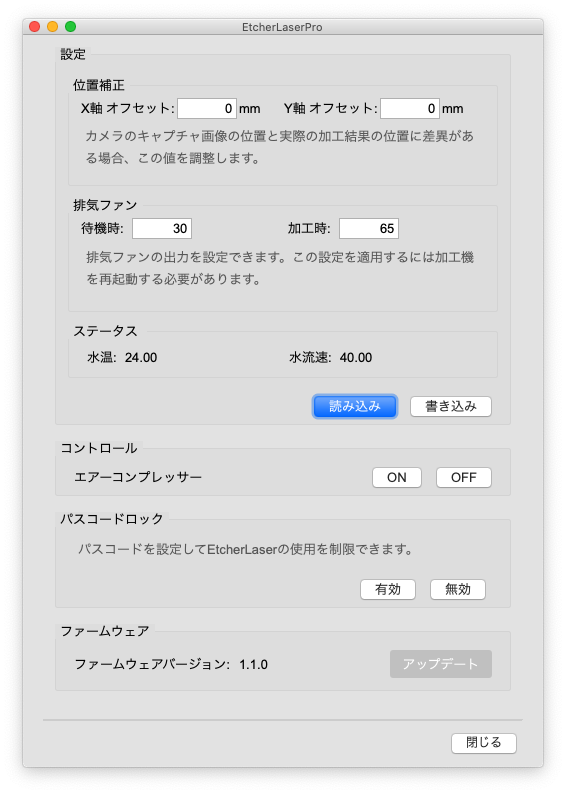
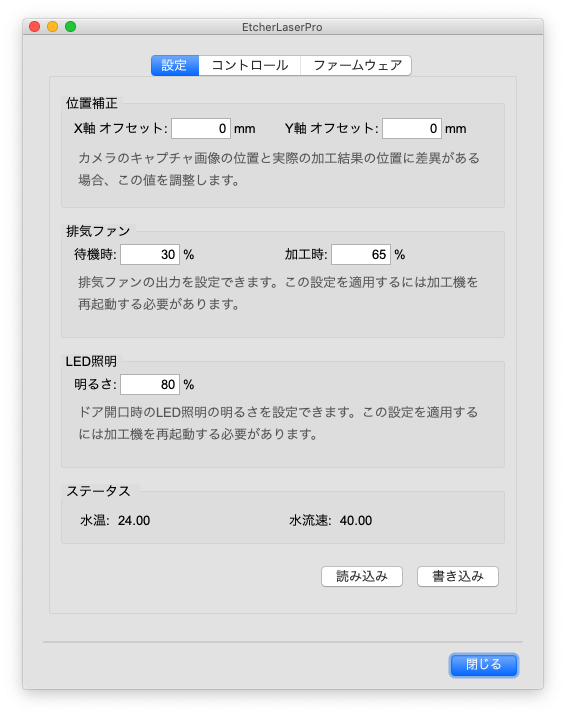
Update for version 1.3.3

diff --git a/manual/etcherlaserpro.md b/manual/etcherlaserpro.md
@@ -1,7 +1,7 @@
 ここでは、EtcherLaserPro用の機能について説明します。
 
 ```
-EthcerLaserProをお使いの方は、ユーザ設定の「モデル名」を"EtcherLaserPro"に設定していることを確認して下さい。  
+EthcerLaserProをお使いの方は、ユーザ設定の「モデル名」を"EtcherLaserPro"に設定していることを確認して下さい。<br/>
 また、ソフトウェアとEtcherLaserProが接続されていない場合は一部機能が無効になります。
 ```
 
@@ -16,12 +16,18 @@ EthcerLaserProをお使いの方は、ユーザ設定の「モデル名」を"Et
 
 
 ### 位置補正
-カメラのキャプチャ画像の位置と実際の加工結果の位置に差異がある場合、この値を調整します。  
+カメラのキャプチャ画像の位置と実際の加工結果の位置に差異がある場合、この値を調整します。
 
 ### 排気ファン
-排気ファンの出力を設定できます。この設定を適用するには加工機を再起動する必要があります。  
+排気ファンの出力を設定できます。この設定を適用するには加工機を再起動する必要があります。
 ```
 待機時: [0 - 50] / 加工時: [30 - 100] の範囲で設定することができます。
+```
+
+### LED照明
+ドア開口時のLED照明の明るさを設定できます。この設定を適用するには加工機を再起動する必要があります。
+```
+[10 - 100] の範囲で設定することができます。
 ```
 
 ### ステータス
@@ -31,8 +37,8 @@ EthcerLaserProをお使いの方は、ユーザ設定の「モデル名」を"Et
 エアーコンプレッサーを動作させることが可能です。レーザー菅の水抜きが必要な際にご利用頂けます。
 
 ### パスコードロック
-EtcherLaserProに4桁のパスコードを設定して使用を制限することできます。   
-パスコードが設定されているEtcherLaserProは、接続時にパスコード認証を行わないと動作させることができません。  
+EtcherLaserProに4桁のパスコードを設定して使用を制限することできます。<br/>
+パスコードが設定されているEtcherLaserProは、接続時にパスコード認証を行わないと動作させることができません。<br/>
 この機能は有効・無効の設定も可能です。
 
 ### ファームウェア
@@ -46,9 +52,9 @@ EtcherLaserProのファームウェアの更新を行うことができます。
 <img alt="EtcherLaser" src="./images/etcherlaserpro/scan.png" style="width:70%">
 </p>
 
-加工機のカメラでスキャンした画像からデータを作成することができます。  
-オリジナル画像（ラスタ加工）・塗りつぶし（ベクタ塗り加工）・輪郭線（ベクタ線加工）を選択できます。  
-カメラマーカが障害物で隠れないように注意してください。  
+加工機のカメラでスキャンした画像からデータを作成することができます。<br/>
+オリジナル画像（ラスタ加工）・塗りつぶし（ベクタ塗り加工）・輪郭線（ベクタ線加工）を選択できます。<br/>
+カメラマーカが障害物で隠れないように注意してください。<br/>
 ※上蓋が閉まっている場合はボタンが無効になります。
 
 
@@ -58,9 +64,9 @@ EtcherLaserProのファームウェアの更新を行うことができます。
 <img alt="EtcherLaser" src="./images/etcherlaserpro/capture.png" style="width:70%">
 </p>
 
-ツールバーにあるキャプチャアイコンをクリックすると、加工機のカメラで撮影した加工エリアの範囲をキャンバス上に表示することができます。  
-カメラマーカが障害物で隠れないように注意してください。  
-※レンズの歪み等で表示位置に多少の誤差が生じることがございます。  
+ツールバーにあるキャプチャアイコンをクリックすると、加工機のカメラで撮影した加工エリアの範囲をキャンバス上に表示することができます。<br/>
+カメラマーカが障害物で隠れないように注意してください。<br/>
+※レンズの歪み等で表示位置に多少の誤差が生じることがございます。<br/>
 ※上蓋が閉まっている場合はボタンが無効になります。
 
 ### キャプチャ時のトラブルシューティング
@@ -69,16 +75,16 @@ EtcherLaserProのファームウェアの更新を行うことができます。
 位置補正値の値を設定頂くことで軽減することが可能です。
 
 1. EtcherLaserPro ダイアログを開きます。
-2. 「位置補正」の項目から各軸の補正値を入力します。  
+2. 「位置補正」の項目から各軸の補正値を入力します。<br/>
  例）実際の加工位置を右に1mm、上に0.5mm移動したい場合 => X: 1mm / Y: -0.5mm
 3. 「書き込み」ボタンを押下して、ウインドウを閉じます。
 
 #### スケールが異なる場合
-プレビュー画像と刻印結果のスケールが異なる場合は、キャプチャ時の高さ入力が適切でない可能性がございます。  
-※キャプチャ対象面の高さに応じてキャプチャ画像をスケーリングしております。  
+プレビュー画像と刻印結果のスケールが異なる場合は、キャプチャ時の高さ入力が適切でない可能性がございます。<br/>
+※キャプチャ対象面の高さに応じてキャプチャ画像をスケーリングしております。<br/>
 ワークエリアからキャプチャ表面（加工面）までの高さを入力してください。
 
 #### 直線が歪んでキャプチャされる場合
-カメラレンズの歪みによって引き起こされている可能性がございます。  
-レンズの製造を行う上で完全な球面を作ることが困難であり、微妙な凹凸がキャプチャ結果に影響を及ぼすことで最大で2〜3mmのズレが発生する可能性がございます。  
+カメラレンズの歪みによって引き起こされている可能性がございます。<br/>
+レンズの製造を行う上で完全な球面を作ることが困難であり、微妙な凹凸がキャプチャ結果に影響を及ぼすことで最大で2〜3mmのズレが発生する可能性がございます。<br/>
 これは製造上避けることができない問題であるため、何卒ご了承頂ければ幸いです。

diff --git a/manual/releasenote.md b/manual/releasenote.md
@@ -231,4 +231,15 @@
 <a href="https://download.smartdiys.com/smartdiyscreator/offline_installer/v1.3.2/SmartDIYsCreator_offline_installer_win-v1.3.2.exe">win</td>
 </tr>
 
+
+<tr>
+<td align="left">2021.3.17</td>
+<td align="left">v1.3.3</td>
+<td align="left">EtcherLaserProのLED照度設定機能追加<br/>SVG解析に関する不具合修正<br/>加工機との通信に関する機能改善<br/>アイテムリストからのオブジェクト選択機能追加<br/>UI/UXの改善<br/>その他 軽微な不具合の修正</td>
+<td align="left">
+<a href="https://download.smartdiys.com/smartdiyscreator/offline_installer/v1.3.3/SmartDIYsCreator_offline_installer_mac-v1.3.3.dmg">mac</a>
+/
+<a href="https://download.smartdiys.com/smartdiyscreator/offline_installer/v1.3.3/SmartDIYsCreator_offline_installer_win-v1.3.3.exe">win</td>
+</tr>
+
 </tbody></table>
